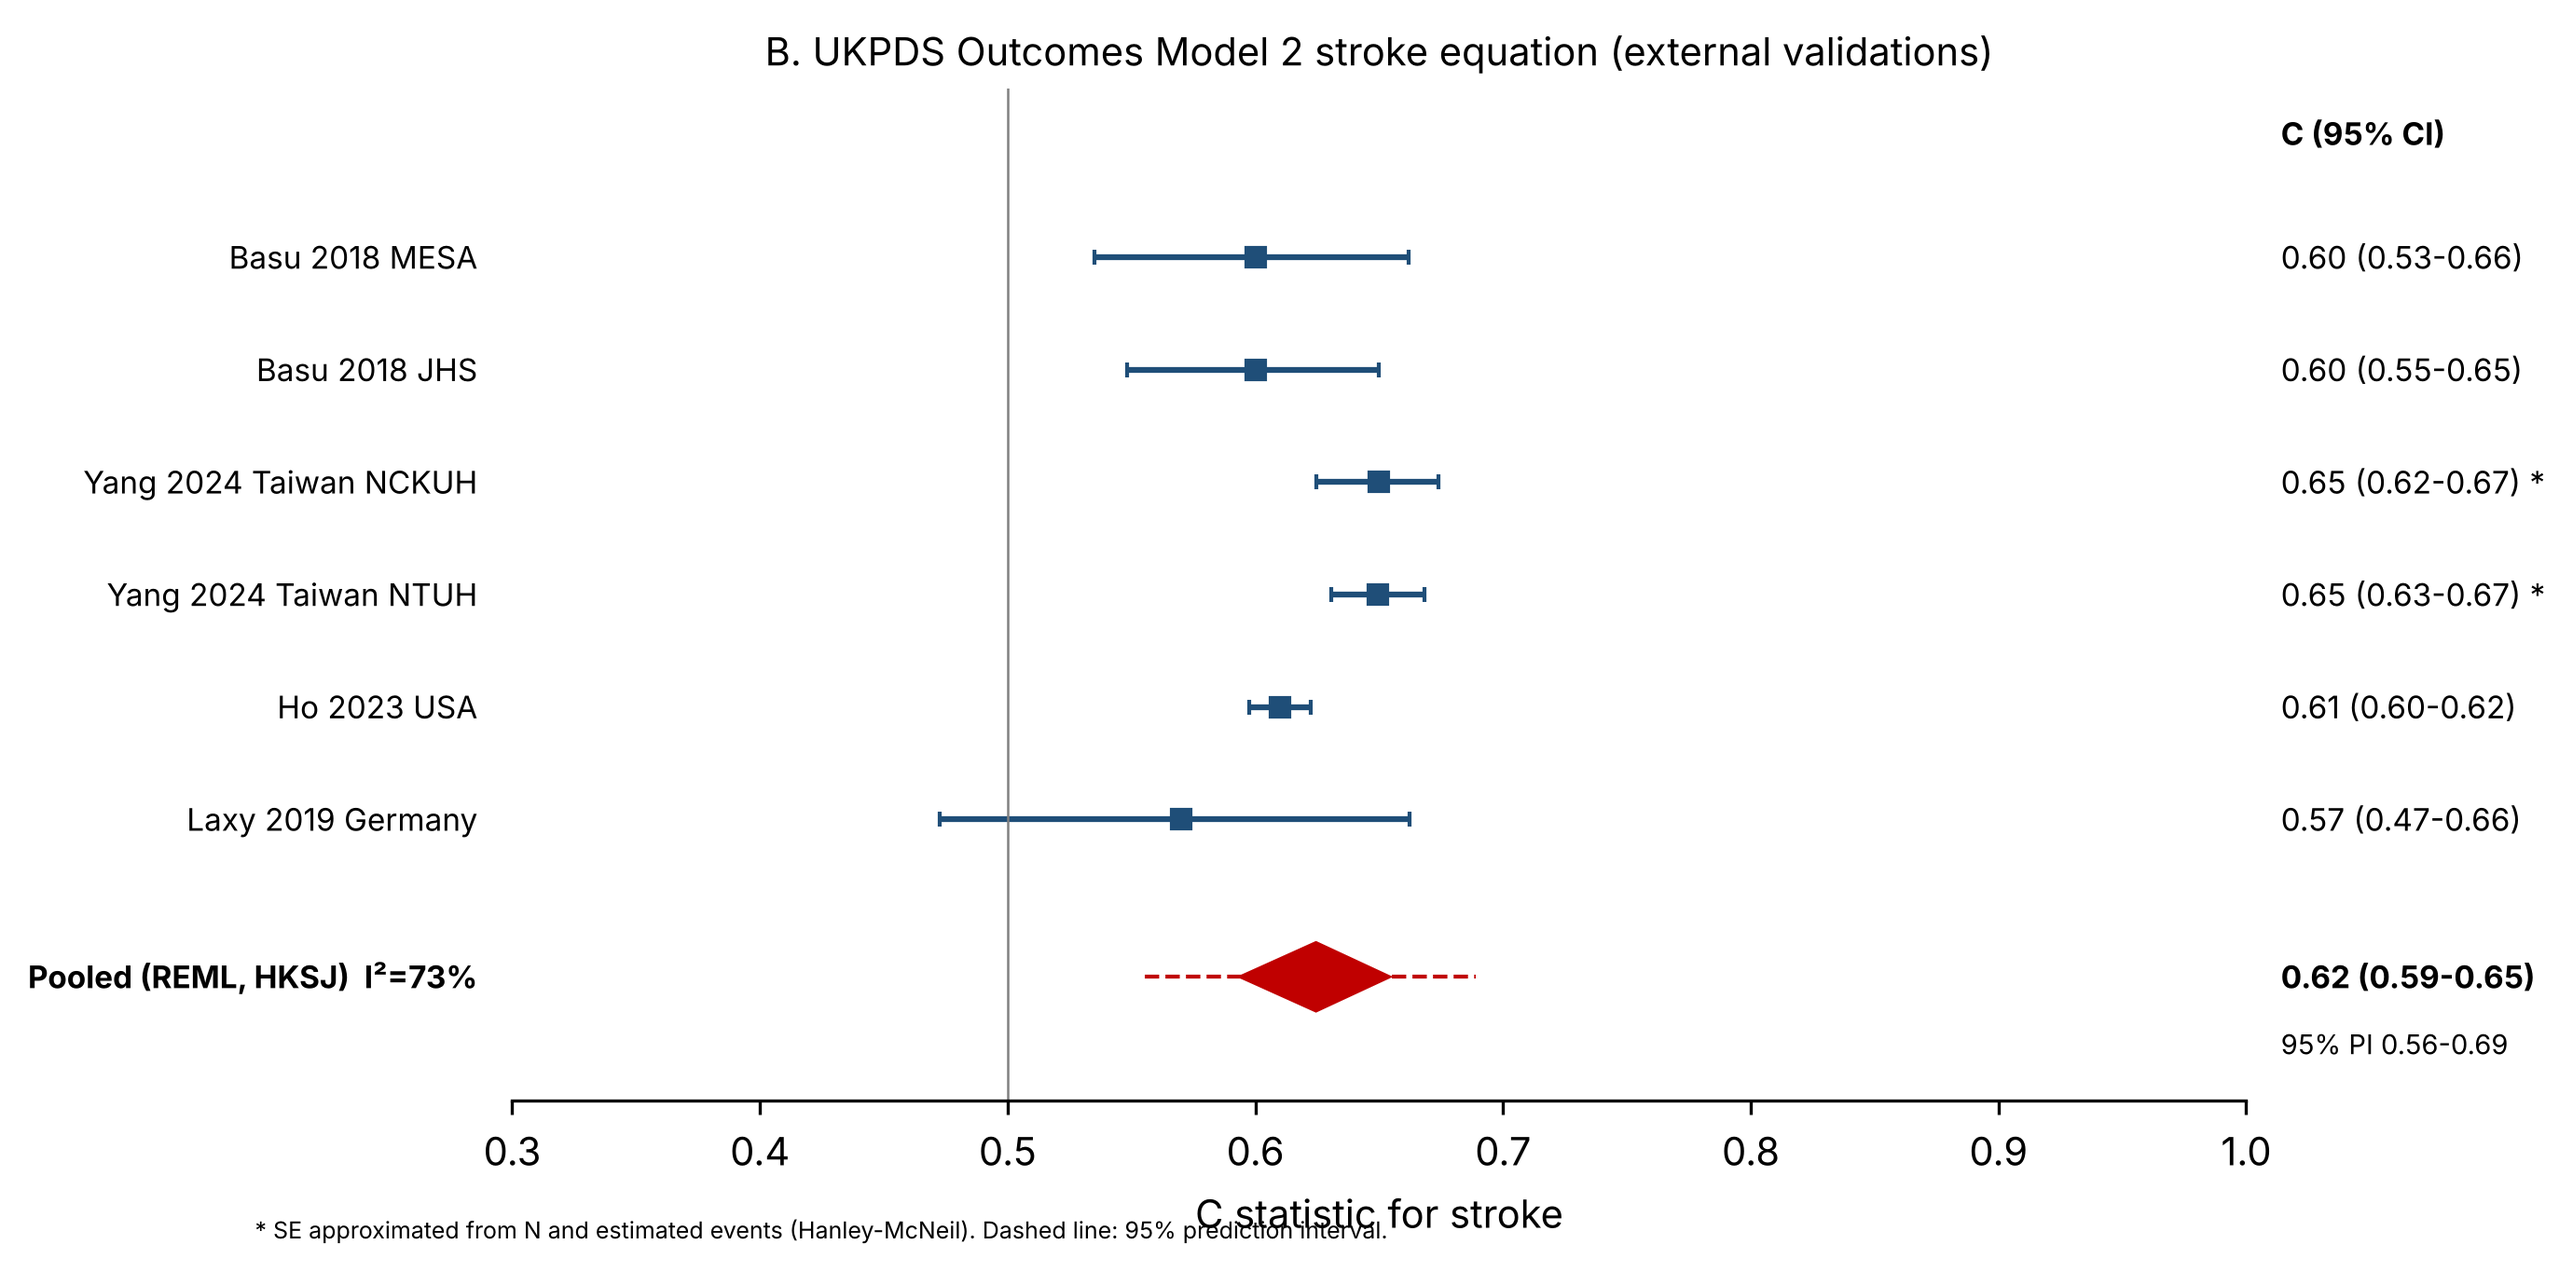
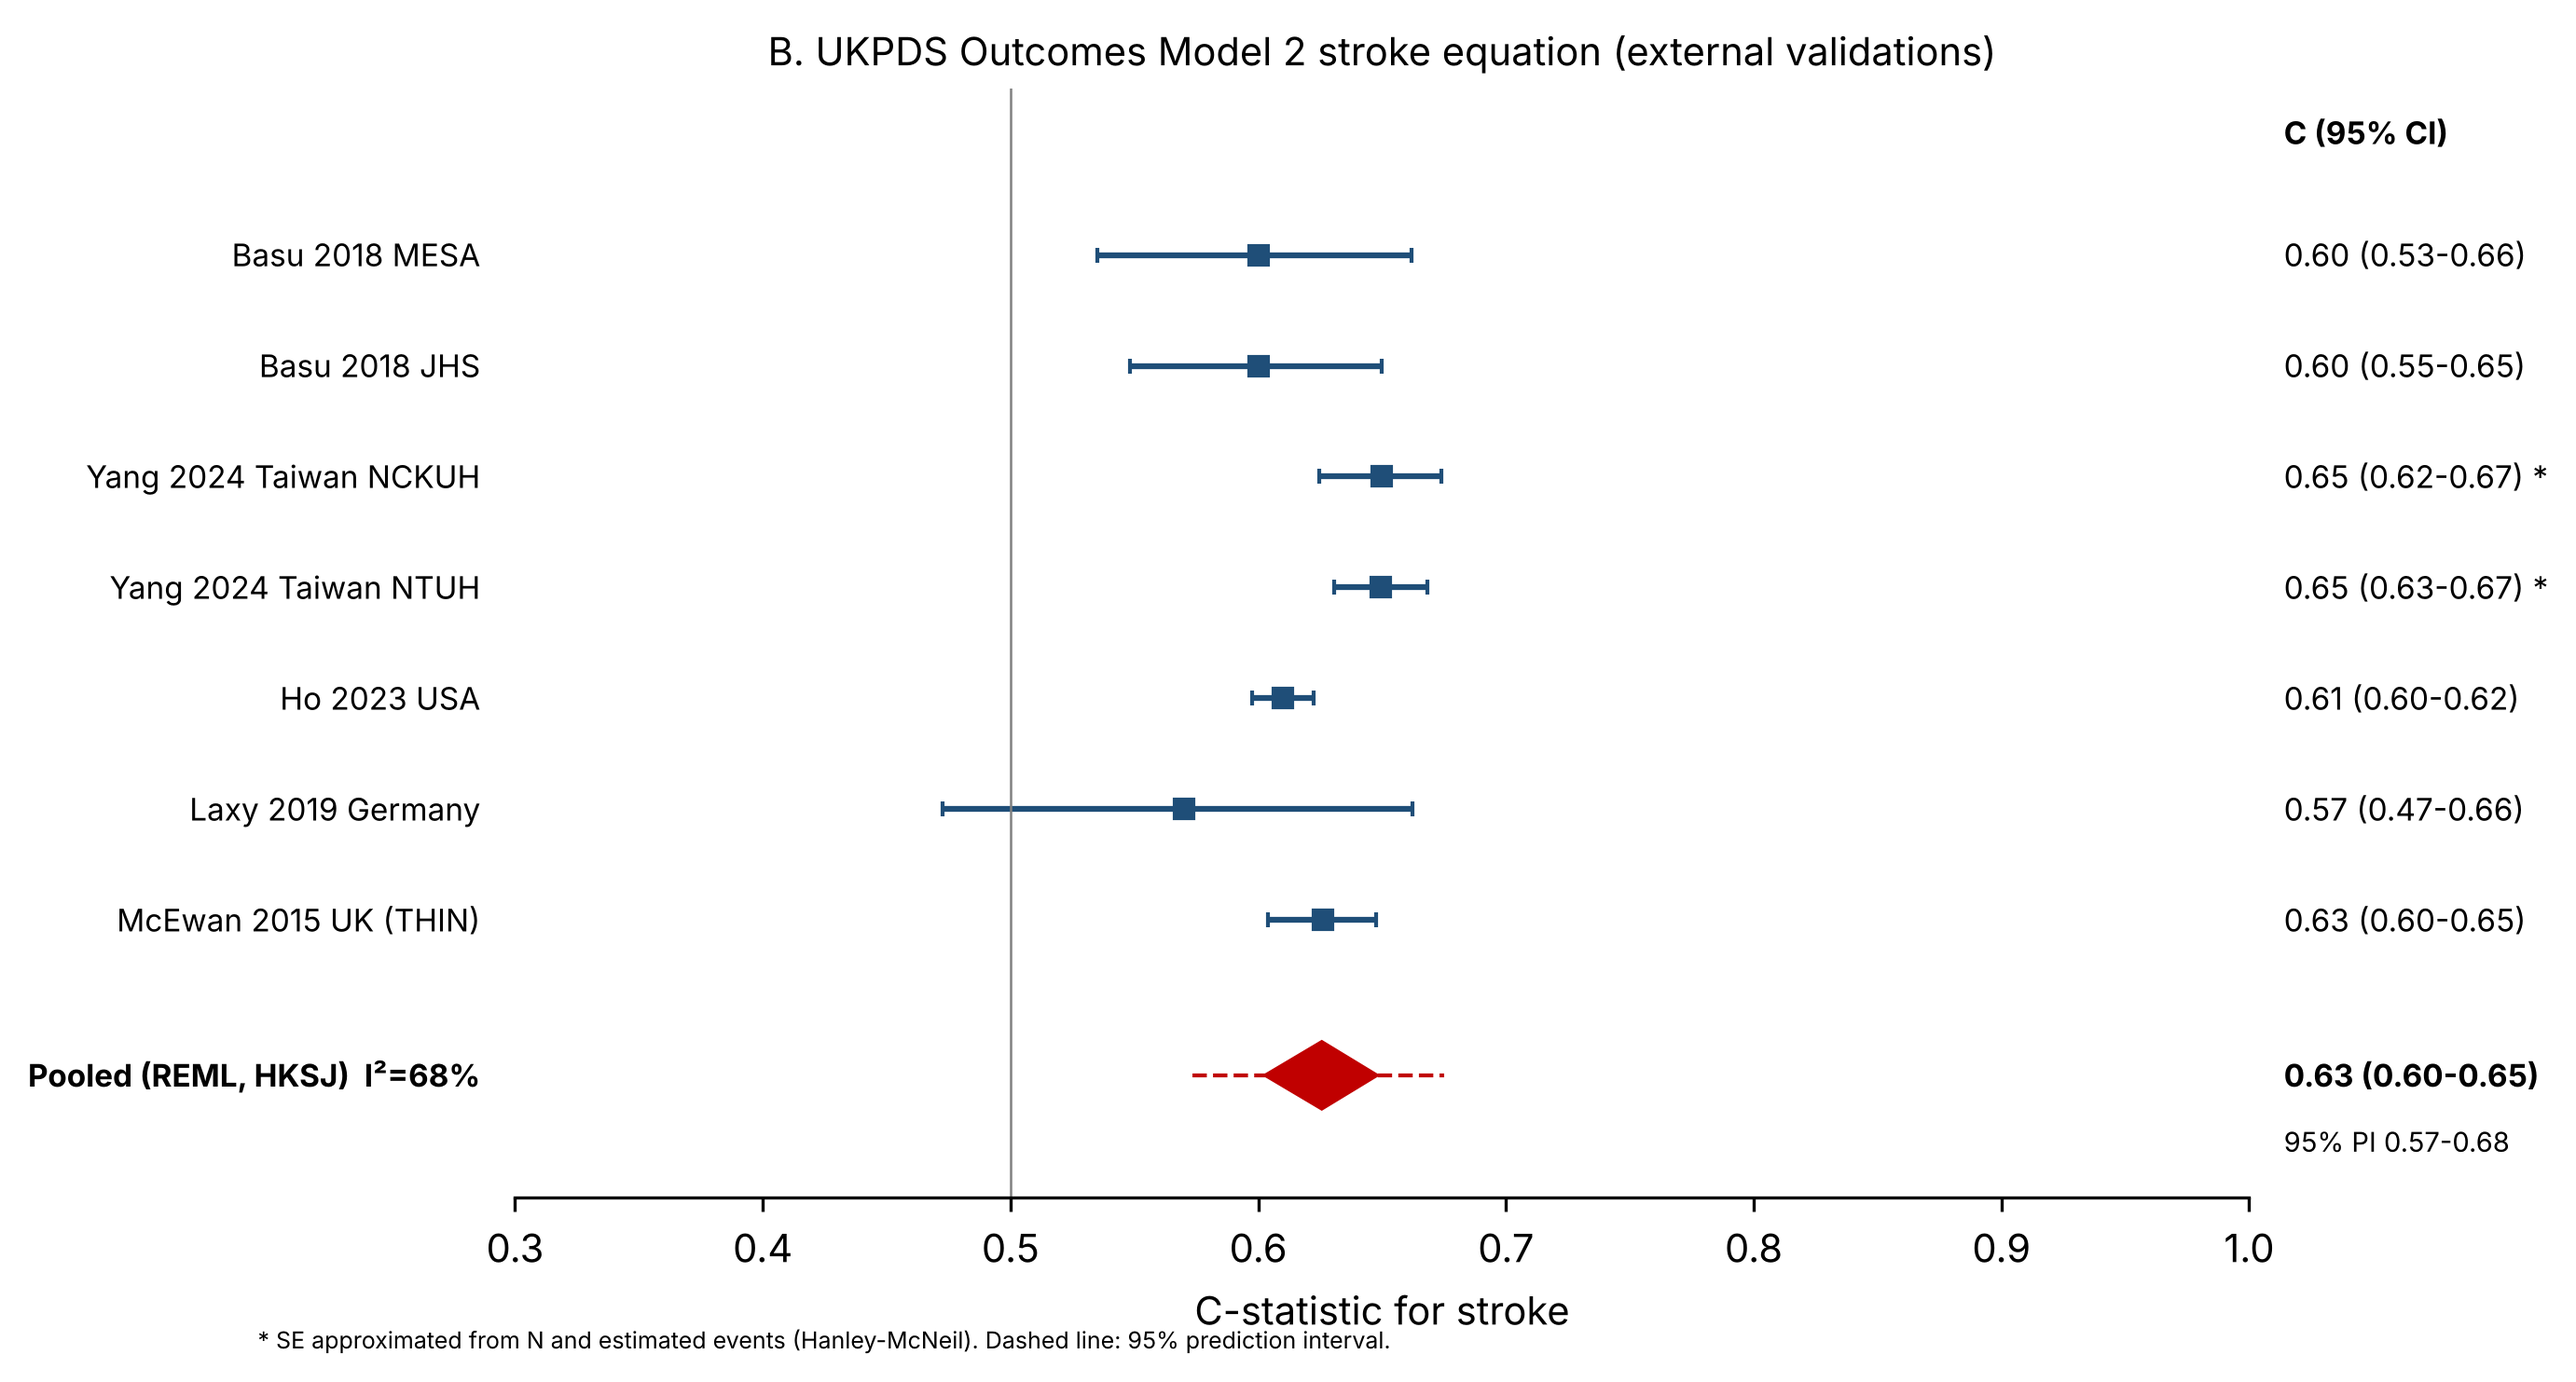
Add files via upload

diff --git a/figures/prisma2.py b/figures/prisma2.py
@@ -1,0 +1,27 @@
+import matplotlib; matplotlib.use('Agg'); import matplotlib.pyplot as plt
+from matplotlib.patches import FancyBboxPatch
+plt.rcParams['font.family']='DejaVu Sans'
+fig,ax=plt.subplots(figsize=(10,12.5)); ax.set_xlim(0,100); ax.set_ylim(0,122); ax.axis('off')
+def box(x,y,w,h,t,fs=10,ha='center',fc='white',bold=False):
+    ax.add_patch(FancyBboxPatch((x,y),w,h,boxstyle='square,pad=0',fc=fc,ec='#222',lw=1.1))
+    tx=x+w/2 if ha=='center' else x+2.2
+    ax.text(tx,y+h/2,t,ha=ha,va='center',fontsize=fs,linespacing=1.45,fontweight='bold' if bold else None)
+def arr(x1,y1,x2,y2): ax.annotate('',(x2,y2),(x1,y1),arrowprops=dict(arrowstyle='-|>',lw=1.2,color='#222',mutation_scale=14))
+# header
+box(10,114,88,6,'Identification of studies via databases',fs=11.5,fc='#F2C14E',bold=True)
+def band(y,h,t):
+    ax.add_patch(FancyBboxPatch((0,y),6.5,h,boxstyle='round,pad=0,rounding_size=1.2',fc='#A9CCE3',ec='#A9CCE3'))
+    ax.text(3.25,y+h/2,t,rotation=90,ha='center',va='center',fontsize=11,fontweight='bold')
+band(84,28,'Identification'); band(24,58,'Screening'); band(2,20,'Included')
+L,W,R,RW=10,42,58,40
+box(L,84,W,28,'Records identified from databases\n(n = 39,831)\n\nPubMed (n = 15,167)\nScopus (n = 17,468)\nWeb of Science (n = 6,581)\nIEEE Xplore (n = 576)\nACM Digital Library (n = 39)')
+box(R,91,RW,14,'Records removed before screening:\nDuplicate records removed\n(n = 10,970)')
+box(L,70,W,8,'Records screened\n(n = 28,861)'); box(R,70,RW,8,'Records excluded\n(n = 28,677)')
+box(L,56,W,8,'Reports sought for retrieval\n(n = 184)'); box(R,56,RW,8,'Reports not retrieved\n(n = 16)')
+box(L,42,W,8,'Reports assessed for eligibility\n(n = 168)')
+box(R,22,RW,28,'Reports excluded (n = 146):\n  No stroke specific performance\n     (composite outcome only) (n = 102)\n  Trial population, R2 (n = 10)\n  Not T2D or type not specified, R1 (n = 10)\n  Wrong outcome or design (n = 9)\n  Prior stroke not excluded, R3 (n = 8)\n  No model performance reported (n = 4)\n  Preprint, retracted or duplicate (n = 3)',fs=9.3,ha='left')
+box(L,4,W,16,'Studies included in review\n(n = 22)\n\nStudies included in meta-analysis\n(n = 20)')
+cx=L+W/2
+arr(L+W,98,R,98); arr(cx,84,cx,78); arr(L+W,74,R,74); arr(cx,70,cx,64)
+arr(L+W,60,R,60); arr(cx,56,cx,50); arr(L+W,46,R,46); arr(cx,42,cx,20)
+plt.savefig('Figure1_PRISMA_flow.png',dpi=300,bbox_inches='tight',facecolor='white'); plt.savefig('Figure1_PRISMA_flow.pdf',bbox_inches='tight')

diff --git a/analysis/subgroup_and_external.py b/analysis/subgroup_and_external.py
@@ -1,0 +1,25 @@
+"""(1) Test for subgroup difference between pooled ML and newly developed regression models
+(random effects within groups, Wald test on the logit scale; groups are not fully independent,
+so the test is exploratory). (2) Newly developed regression restricted to external validations."""
+import os, numpy as np, pandas as pd
+from scipy import stats
+exec(open(os.path.join(os.path.dirname(os.path.abspath(__file__)),'meta_analysis.py')).read().split("D=pd.read_csv")[0])
+D=pd.read_csv(DATA+'ma_data.csv'); D['se']=D.apply(se_logit,axis=1); D['y']=logit(D.c); D['v']=D.se**2
+def pool_logit(s):
+    r=pool(s.y.values,s.v.values); mu=logit(r['C']); se=(logit(r['hi'])-logit(r['lo']))/(2*stats.t.ppf(.975,r['k']-1)); return r,mu,se
+rows=[]
+rm,mm,sm=pool_logit(D[D.group=='ML']); rr,mr,sr=pool_logit(D[D.group=='NewReg'])
+z=(mm-mr)/np.sqrt(sm**2+sr**2); p=2*stats.norm.sf(abs(z))
+rows.append(dict(analysis='ML vs NewReg difference in logit C',estimate=round(mm-mr,3),z=round(z,2),P=round(p,3)))
+ext=D[(D.group=='NewReg')&D.label.str.contains('external')]
+r=pool(ext.y.values,ext.v.values)
+rows.append(dict(analysis='NewReg external validations only',estimate=f"{r['C']:.3f} ({r['lo']:.3f} to {r['hi']:.3f}), k={r['k']}, I2={r['I2']:.0f}"))
+R=pd.DataFrame(rows); R.to_csv(DATA+'ma_subgroup_external.csv',index=False); print(R.to_string())
+# (3) Same comparison restricted to stroke-only outcomes
+CEVD={144,397,11727,15304,4500,16555,4179}
+s=D[~D.record.isin(CEVD)]
+ml=s[s.group=='ML']; mm2=ml.y.iloc[0]; sm2=ml.se.iloc[0]
+rr2,mr2,sr2=pool_logit(s[s.group=='NewReg'])
+z2=(mm2-mr2)/np.sqrt(sm2**2+sr2**2); p2=2*stats.norm.sf(abs(z2))
+rows.append(dict(analysis='ML vs NewReg, stroke-only outcomes (ML k=1)',estimate=round(mm2-mr2,3),z=round(z2,2),P=round(p2,3)))
+R=pd.DataFrame(rows); R.to_csv(DATA+'ma_subgroup_external.csv',index=False); print(R.to_string())

diff --git a/figures/figure2_pooled_summary.py b/figures/figure2_pooled_summary.py
@@ -1,5 +1,5 @@
 import matplotlib; matplotlib.use('Agg'); import matplotlib.pyplot as plt
-rows=[('Newly developed regression',7,.70,.69,.72,.67,.73,'#1F4E78'),('Machine learning (best per study)',4,.78,.67,.86,.42,.95,'#C55A11'),('RECODe (external)',5,.68,.61,.75,.49,.83,'#7F7F7F'),('UKPDS Risk Engine (external)',7,.66,.53,.77,.32,.89,'#7F7F7F'),('UKPDS OM2 (external)',6,.62,.59,.65,.56,.69,'#7F7F7F'),(None,)*8,('Sensitivity: regression, stroke only',5,.71,.68,.75,.63,.78,'#1F4E78'),('Sensitivity: ML, stroke only (1 study)',1,.72,.70,.74,None,None,'#C55A11'),('Sensitivity: ML, adding unspecified type',8,.73,.67,.79,.52,.88,'#C55A11')]
+rows=[('Newly developed regression',7,.70,.69,.72,.67,.73,'#1F4E78'),('Machine learning (best per study)',4,.78,.67,.86,.42,.95,'#C55A11'),('RECODe (external)',5,.68,.61,.75,.49,.83,'#7F7F7F'),('UKPDS Risk Engine (external)',7,.66,.53,.77,.32,.89,'#7F7F7F'),('UKPDS OM2 (external)',7,.63,.60,.65,.57,.68,'#7F7F7F'),(None,)*8,('Sensitivity: regression, stroke only',5,.71,.68,.75,.63,.78,'#1F4E78'),('Sensitivity: ML, stroke only (1 study)',1,.72,.70,.74,None,None,'#C55A11'),('Sensitivity: ML, adding unspecified type',8,.73,.67,.79,.52,.88,'#C55A11')]
 fig,ax=plt.subplots(figsize=(10,5.2));n=len(rows)
 for i,r in enumerate(rows):
     y=n-i

diff --git a/figures/figure1_prisma.py b/figures/figure1_prisma.py
@@ -20,7 +20,7 @@ box(L,70,W,8,'Records screened\n(n = 28,861)'); box(R,70,RW,8,'Records excluded\
 box(L,56,W,8,'Reports sought for retrieval\n(n = 184)'); box(R,56,RW,8,'Reports not retrieved\n(n = 16)')
 box(L,42,W,8,'Reports assessed for eligibility\n(n = 168)')
 box(R,22,RW,28,'Reports excluded (n = 146):\n  No stroke specific performance\n     (composite outcome only) (n = 102)\n  Trial population, R2 (n = 10)\n  Not T2D or type not specified, R1 (n = 10)\n  Wrong outcome or design (n = 9)\n  Prior stroke not excluded, R3 (n = 8)\n  No model performance reported (n = 4)\n  Preprint, retracted or duplicate (n = 3)',fs=9.3,ha='left')
-box(L,4,W,16,'Studies included in review\n(n = 22)\n\nStudies included in meta-analysis\n(n = 19)')
+box(L,4,W,16,'Studies included in review\n(n = 22)\n\nStudies included in meta-analysis\n(n = 20)')
 cx=L+W/2
 arr(L+W,98,R,98); arr(cx,84,cx,78); arr(L+W,74,R,74); arr(cx,70,cx,64)
 arr(L+W,60,R,60); arr(cx,56,cx,50); arr(L+W,46,R,46); arr(cx,42,cx,20)
